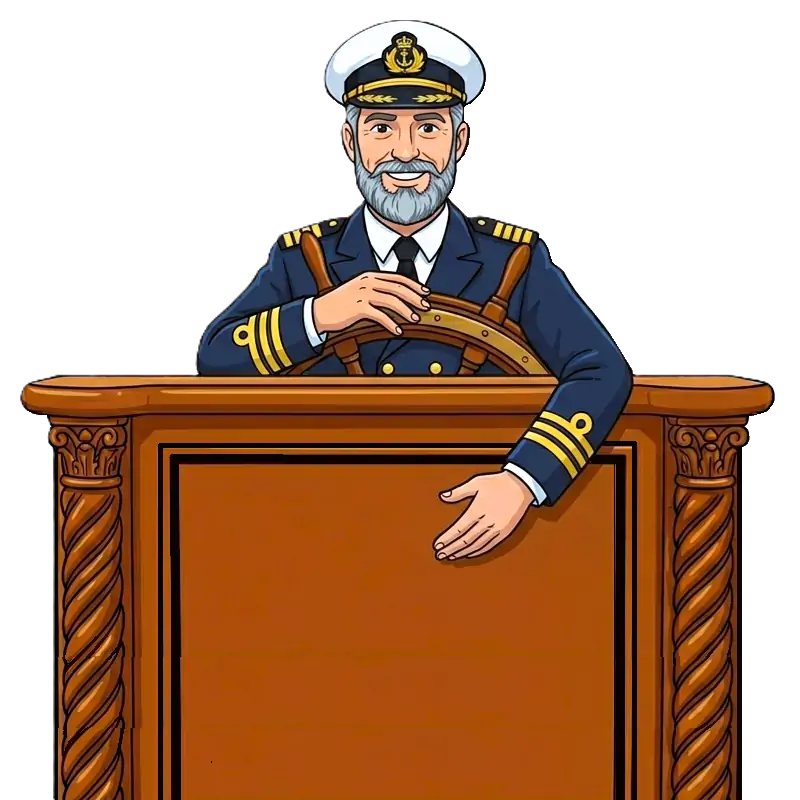
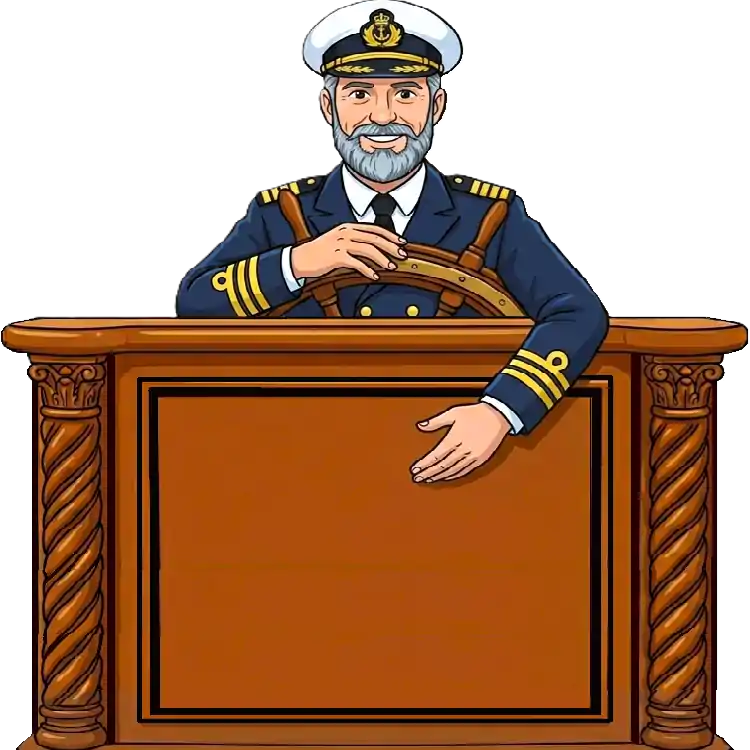
Add files via upload

diff --git a/style.css b/style.css
@@ -485,10 +485,6 @@ header h4 {
   margin-top: -150px;
 }
 
-.counter img {
-  margin: auto;
-}
-
 #history p {
   font-size: 1.25rem;
   color: springgreen;
@@ -504,14 +500,18 @@ header h4 {
   }
 }
 
+.counter img {
+  margin: auto;
+}
+
 .count {
   margin-top: -20px;
 }
 
 #welcome-message {
   margin: auto;
-  width: 90%;
-  max-width: 440px;
+  width: 98%;
+  max-width: 350px;
   aspect-ratio: 1 / 1;
   background: url('ship-commander.webp') center / cover no-repeat;
   position: relative;
@@ -527,7 +527,7 @@ header h4 {
 
 @media (min-width: 768px) {
   #welcome-message h4 {
-    font-size: 1.25rem !important;
+    font-size: 1.2rem !important;
     font-weight: 800;
   }
 }
@@ -540,13 +540,12 @@ header h4 {
 
 .desk-text-container {
   position: absolute;
-  bottom: 1px;
+  bottom: 17px;
   left: 0;
   width: 100%;
   padding: 1px;
   box-sizing: border-box;
 }
-
 
 /* =========================================
    SECTIUNE PARALLAX
@@ -965,6 +964,7 @@ footer ul li a {
   color: red;
   text-decoration: none;
   font-weight: 700;
+  text-shadow: .3px .3px .3px black;
 }
 
 footer ul li a:hover {